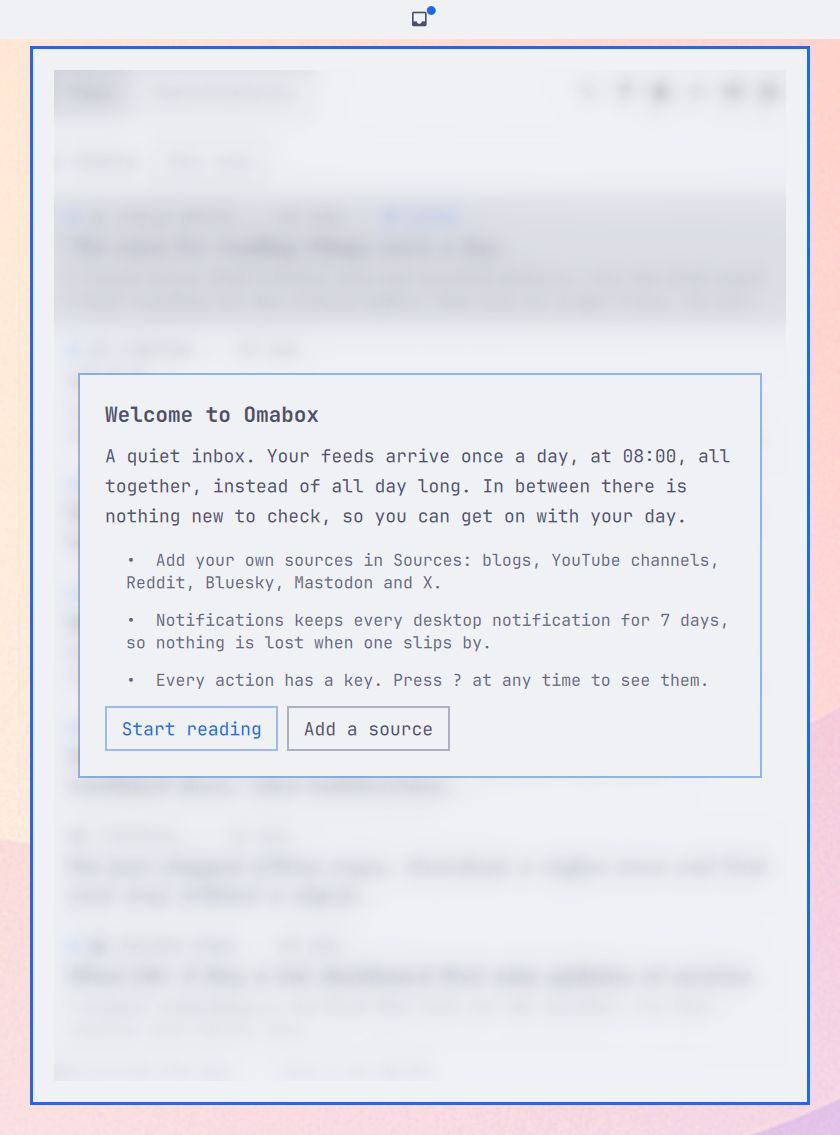
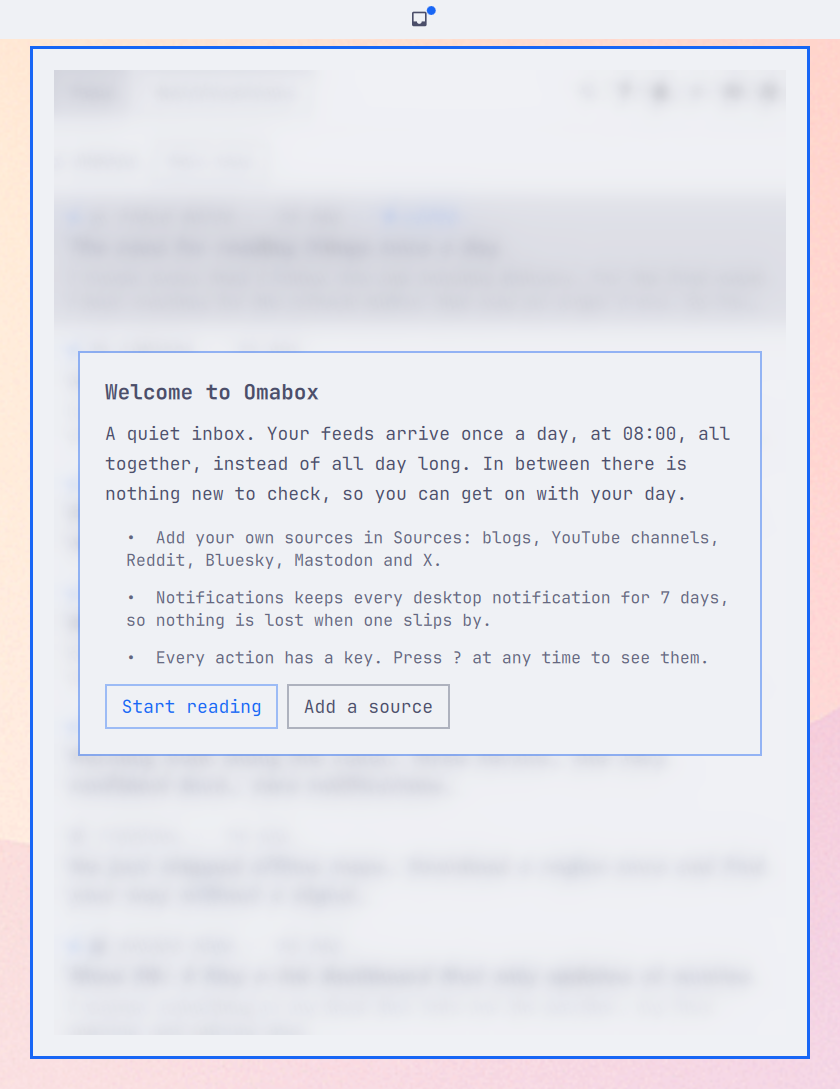
docs: screenshots for 1.0.1, the same height side by side
The panel lost its bottom line, so the shots and the marketplace preview
showed a panel that no longer exists. The feed, notifications and sources
shots now come from a 640-pixel-high layout, where every view fills the
same height, so the three sit evenly side by side in the README and the
preview. The README's screenshot command says so.

diff --git a/README.md b/README.md
@@ -225,9 +225,10 @@ ln -sfn "$PWD" ~/.config/omarchy/plugins/io.github.wienieclaurowy.omabox
 omarchy restart shell
 ```
 
-The screenshots come from `python3 tools/screenshots/shots.py OUT-DIR feed:tokyo-night ...`, which shows the
-real panel with invented data in a second, sandboxed Quickshell for a few seconds, without touching your own
-shell, theme or Omabox data.
+The screenshots come from `SHOTS_HEIGHT=640 python3 tools/screenshots/shots.py OUT-DIR feed:tokyo-night ...`,
+which shows the real panel with invented data in a second, sandboxed Quickshell for a few seconds, without
+touching your own shell, theme or Omabox data. The low screen height makes every view fill the same height, so
+shots that sit side by side match.
 
 ## About this project
 
